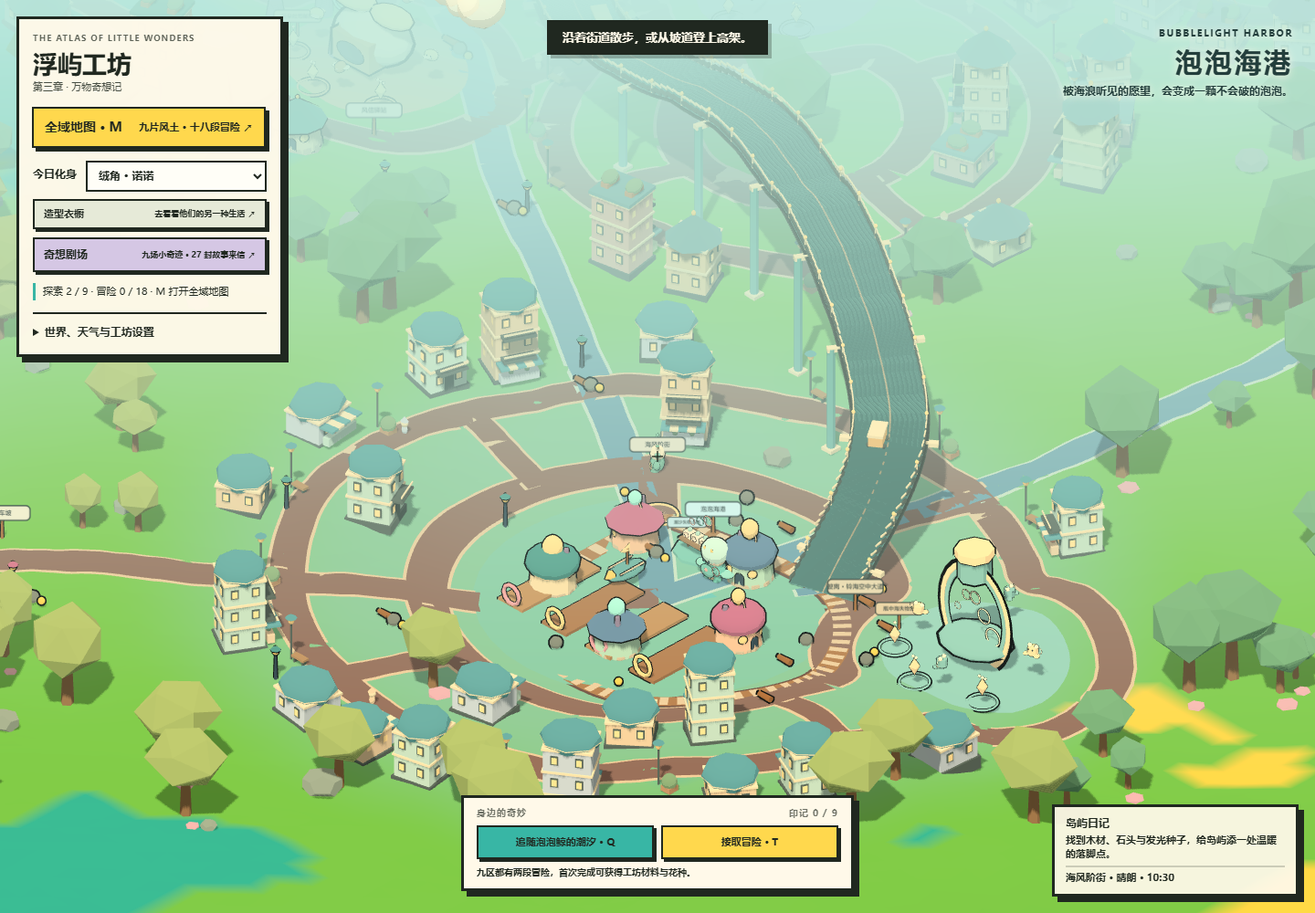
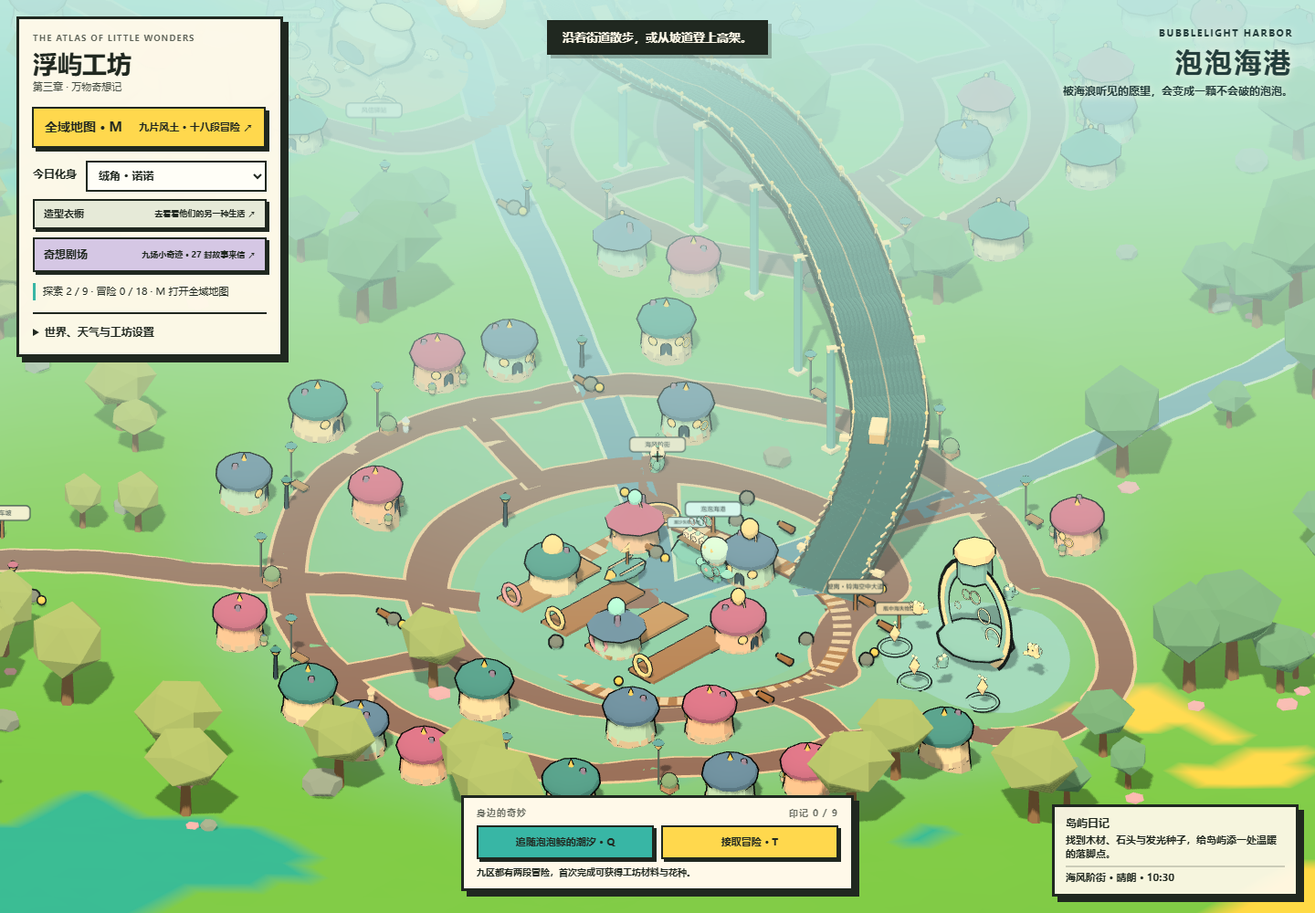
Unify city homes with the original rounded cottage style

diff --git a/world-city.js b/world-city.js
@@ -1,10 +1,12 @@
+import {HOUSE_COLORS,createHouseGeometry,houseParts} from './house-style.js';
+
 // Hand-authored neighborhoods and layered transport for the existing nine-region world.
 export const CITY_DISTRICTS = [
   {id:'cloudbell',name:'云铃环城街',en:'CLOUDBELL LANES',x:9,z:5,rings:[12.5,22],style:'post',colors:[0xf5dfb8,0xe8bfa1,0xb7d5c5],roof:0x579e96,link:[7,3.8],story:'邮戳屋顶挨着花店，晾衣绳上停满了等回信的纸鸟。'},
-  {id:'east',name:'铃东叠屋街',en:'EASTERN ROOFTOPS',x:48,z:2,rings:[8,16],style:'post',colors:[0xf3d6ad,0xe8bbb0,0xd4dfb7],roof:0x74a7b0,link:[27,4],story:'把小店叠成两三层，再给每扇窗留一片屋顶花园。'},
+  {id:'east',name:'铃东叠屋街',en:'EASTERN ROOFTOPS',x:48,z:2,rings:[8,16],style:'post',colors:[0xf3d6ad,0xe8bbb0,0xd4dfb7],roof:0x74a7b0,link:[27,4],story:'圆顶和尖顶沿坡错落，纸鸟在金色信箱与门前花盆之间传信。'},
   {id:'grove',name:'梦孢灯巷',en:'LANTERN GROVE',x:-46,z:18,rings:[8,16],style:'grove',colors:[0xe8cce0,0xd4d5e8,0xc1dbc9],roof:0xac83b4,link:[-20,16],story:'伞屋之间卖梦蕾和热茶，夜灯精沿着弯弯的街道散步。'},
   {id:'whale',name:'鲸眠花坊',en:'WHALEBLOOM QUARTER',x:-7,z:-65,rings:[8,15],style:'bloom',colors:[0xf2d6c3,0xf4dfb3,0xc7ded4],roof:0xdc9f9f,link:[-4,-32],story:'风筝挂满花坊的露台，赶路的人总能带走一朵花。'},
-  {id:'harbor',name:'海风阶街',en:'SEABREEZE TERRACES',x:80,z:47,rings:[15,24],style:'harbor',colors:[0xc9e8df,0xf1d7b7,0xd0deef],roof:0x65acb8,link:[73,40],story:'贝壳铺、船帆棚和蓝色阳台围着海港，一层又一层亮起灯。'},
+  {id:'harbor',name:'海风阶街',en:'SEABREEZE TERRACES',x:80,z:47,rings:[15,24],style:'harbor',colors:[0xc9e8df,0xf1d7b7,0xd0deef],roof:0x65acb8,link:[73,40],story:'圆鼓鼓的贝壳小屋围着海港，救生圈挂在门边，暖圆窗一盏盏亮起。'},
   {id:'gear',name:'发条南城',en:'CLOCKWORK SOUTH',x:10,z:100,rings:[15,24],style:'clock',colors:[0xe6c6a2,0xc6d4c1,0xf0dba7],roof:0x7e9992,link:[4,92],story:'修钟铺和面包摊共用一条街；观光班车在高架上慢慢经过。'},
   {id:'dunes',name:'薄荷驿城',en:'MINT CARAVANSERAI',x:-82,z:54,rings:[15,24],style:'dune',colors:[0xf0d6a2,0xe8b99e,0xdac8b4],roof:0xcd8d80,link:[-74,47],story:'连片的圆顶屋围住树荫，商队把风铃挂在每个拱门上。'},
   {id:'snow',name:'星邮坡城',en:'STARPOST HILLSIDE',x:77,z:-78,rings:[10,18],style:'snow',colors:[0xe6eeee,0xc8dce9,0xd8d1e7],roof:0x8aabc2,link:[86,-76],story:'陡屋顶接住落雪，观景桥把山坡上的星邮小屋连起来。'},
@@ -29,19 +31,25 @@ export function createCityWorld(THREE, env) {
 
   function prepareAssets(){
     shapes={box:new THREE.BoxGeometry(1,1,1),ball:new THREE.SphereGeometry(1,8,6),cone:new THREE.ConeGeometry(1,1,8),pillar:new THREE.CylinderGeometry(1,1,1,8),ring:new THREE.TorusGeometry(1,.12,6,16)};
-    solid=env.toon(0xffffff);glow=env.toon(0xffffff,{emissive:0xffd69a,emissiveIntensity:.22});
+    solid=env.toon(0xffffff);glow=env.toon(0xffffff,{emissive:HOUSE_COLORS.window,emissiveIntensity:.15});
   }
-  function add(shape,x,y,z,sx,sy,sz,color,angle=0,lit=false){
+  function add(shape,x,y,z,sx,sy,sz,color,angle=0,lit=false,tiltX=0,tiltZ=0){
     const key=shape+(lit?'-light':'');
     if(!batches.has(key))batches.set(key,[]);
-    batches.get(key).push({shape,x,y,z,sx,sy,sz,color,angle,lit});
+    batches.get(key).push({shape,x,y,z,sx,sy,sz,color,angle,lit,tiltX,tiltZ});
   }
   function flush(name){
     const root=new THREE.Group();root.name=name;
     for(const list of batches.values()){
       const first=list[0],mesh=new THREE.InstancedMesh(shapes[first.shape],first.lit?glow:solid,list.length);
-      list.forEach((p,i)=>{vec.position.set(p.x,p.y,p.z);vec.rotation.set(0,p.angle,0);vec.scale.set(p.sx,p.sy,p.sz);vec.updateMatrix();mesh.setMatrixAt(i,vec.matrix);mesh.setColorAt(i,tint.set(p.color));});
+      list.forEach((p,i)=>{vec.position.set(p.x,p.y,p.z);vec.rotation.set(p.tiltX,p.angle,p.tiltZ,'YXZ');vec.scale.set(p.sx,p.sy,p.sz);vec.updateMatrix();mesh.setMatrixAt(i,vec.matrix);mesh.setColorAt(i,tint.set(p.color));});
       mesh.castShadow=!first.lit;mesh.receiveShadow=true;mesh.computeBoundingSphere();root.add(mesh);
+      if(name.startsWith('city-district-')){
+        const hull=new THREE.InstancedMesh(mesh.geometry,env.outlineMat,list.length);
+        hull.instanceMatrix.copy(mesh.instanceMatrix);hull.computeBoundingSphere();
+        hull.name='inverted-hull';hull.userData.isOutline=true;hull.renderOrder=-1;hull.visible=env.state.outline;
+        root.add(hull);env.outlines.push(hull);
+      }
     }
     env.addProp(root);batches=new Map();return root;
   }
@@ -91,41 +99,53 @@ export function createCityWorld(THREE, env) {
       skyways.some(s=>nearestSegment(s.points,x,z).distance<s.def.width/2+r+1)||roadClearance(x,z)<r+.35;
   }
   function house(d,x,z,angle,index){
-    const wide=1.35+(index%3)*.12,depth=1.35+(index%2)*.1,floors=1+(index%4===0?2:index%3===0?1:0),height=1.7*floors;
+    // Keep the placement envelope unchanged so an art pass never moves the town.
+    const wide=1.35+(index%3)*.12,depth=1.35+(index%2)*.1;
     const c=Math.cos(angle),s=Math.sin(angle),g=ground(x,z),base=Math.max(g,ground(x-wide,z-depth),ground(x+wide,z+depth))+.12;
-    const part=(shape,px,py,pz,sx,sy,sz,color,lit=false)=>add(shape,x+px*c+pz*s,base+py,z-px*s+pz*c,sx,sy,sz,color,angle,lit);
-    part('box',0,(g-base)/2-.15,0,wide*2+.3,base-g+.3,depth*2+.3,ink);
-    part('box',0,height/2,0,wide*2,height,depth*2,d.colors[index%3]);
-    for(let f=0;f<floors;f++){
-      const y=f*1.7;part('box',0,y+1.65,0,wide*2+.22,.15,depth*2+.2,cream);
-      for(const face of [0,1,2,3])for(const side of [-1,1]){
-        const a=face*Math.PI/2,px=side*wide*.52*Math.cos(a)+Math.sin(a)*(depth+.035),pz=-side*wide*.52*Math.sin(a)+Math.cos(a)*(depth+.035);
-        add('box',x+px*c+pz*s,base+y+.9,z-px*s+pz*c,.52,.65,.09,ink,angle+a);
-        add('box',x+px*c+pz*s+Math.sin(angle+a)*.06,base+y+.9,z-px*s+pz*c+Math.cos(angle+a)*.06,.35,.47,.06,0xffdf9f,angle+a,true);
+    const scale=.97+(index%3)*.035,variant=index+CITY_DISTRICTS.indexOf(d);
+    const dome=['grove','dune','harbor'].includes(d.style)||d.style!=='snow'&&Boolean(index%2);
+    const colors={...HOUSE_COLORS,wall:HOUSE_COLORS.walls[variant%3],roof:HOUSE_COLORS.roofs[variant%3]};
+    const part=(shape,px,py,pz,sx,sy,sz,color,lit=false,rotation=[0,0,0])=>add(shape,x+(px*c+pz*s)*scale,base+py*scale,z+(-px*s+pz*c)*scale,sx*scale,sy*scale,sz*scale,color,angle+rotation[1],lit,rotation[0],rotation[2]);
+    for(const p of houseParts(variant,dome)){
+      const shape='house-'+p.shape;
+      if(!shapes[shape])shapes[shape]=createHouseGeometry(THREE,p.shape);
+      // Extend the same tapered stone footing only where the hillside needs it.
+      if(p.shape==='foundation'){
+        const low=Math.min(g,ground(x-wide,z-depth),ground(x+wide,z+depth));
+        const height=Math.max(1.15,(base-low+.35)/scale);
+        p.position[1]=.315-height/2;p.scale[1]=height/1.15;
       }
-      if(f>0){part('box',0,y-.02,depth+.38,wide*1.55,.16,.85,ink);part('box',0,y+.38,depth+.72,wide*1.55,.12,.08,cream);}
+      part(shape,...p.position,...p.scale,colors[p.material],p.material==='window',p.rotation);
     }
-    if(d.style==='grove'||d.style==='dune'||d.style==='harbor'){
-      part('ball',0,height+.25,0,wide*1.3,d.style==='grove'?.8:1.05,depth*1.3,d.roof);
-      part('pillar',0,height+.18,0,wide*1.28,.15,depth*1.28,cream);
-      if(d.style==='grove')for(const side of [-1,1])part('ball',side*.65,height+.83,.35,.22,.08,.22,cream);
-    }else if(index%3===1){
-      part('box',0,height+.15,0,wide*2+.3,.24,depth*2+.3,d.roof);
-      for(const side of [-1,1]){part('box',side*wide*.65,height+.42,0,.55,.4,1.35,0xc99572);part('ball',side*wide*.65,height+.76,0,.52,.48,.72,0x91b58a);}
-    }else{
-      part('cone',0,height+.85,0,wide*1.45,1.8,depth*1.45,d.roof);
-      part('ball',0,height+1.82,0,.16,.2,.16,0xf1cc7b,true);
+    // Local stories are small accessories on a shared cottage silhouette.
+    if(d.style==='grove')for(const [px,pz]of [[-.68,.63],[.62,.82],[.48,-.68]]){
+      const py=2+.56*Math.sqrt(1.8**2-px**2-pz**2);
+      part('ball',px,py+.025,pz,.21,.06,.21,HOUSE_COLORS.walls[0]);
     }
-    part('box',0,.55,depth+.07,.65,1.1,.12,ink);
-    if(index%2===0){
-      for(let i=0;i<5;i++)part('box',(i-2)*wide*.39,1.35,depth+.55,wide*.4,.14,1.1,i%2?cream:d.roof);
-      part('box',0,.35,depth+.45,wide*1.8,.6,.5,d.colors[(index+1)%3]);
-      for(const side of [-1,1])part('ball',side*.55,.76,depth+.43,.18,.18,.18,index%4?0xe8a38e:0x92b795);
+    if(d.style==='harbor')part('ring',1.26,.9,.93,.3,.3,.3,HOUSE_COLORS.gold,false,[0,.85,0]);
+    if(d.style==='clock'){
+      part('pillar',0,1.4,1.58,.2,.28,.2,HOUSE_COLORS.gold,false,[Math.PI/2,0,0]);
+      part('ball',0,1.4,1.72,.24,.24,.065,HOUSE_COLORS.paleStone);
+      part('ring',0,1.4,1.77,.25,.25,.2,HOUSE_COLORS.gold);
+      part('box',0,1.46,1.8,.025,.15,.025,HOUSE_COLORS.ink);
+      part('box',.06,1.4,1.8,.13,.025,.025,HOUSE_COLORS.ink);
     }
-    if(d.style==='clock'){part('pillar',-.6,height+.55,-.45,.26,1.3,.26,ink);part('ring',0,height+.16,depth+.16,.65,.65,.25,0xe8c489);}
-    if(d.style==='snow')part('cone',0,height+1.15,0,wide*.9,1.25,depth*.9,0xf7f4e5);
+    if(d.style==='snow')part('house-roof',0,2.9,0,.64,.6,.64,0xf7f4e5);
+    if(d.style==='dune'){
+      part('pillar',1.35,1.72,.68,.025,.48,.025,HOUSE_COLORS.gold);
+      part('ball',1.35,1.45,.68,.13,.14,.13,HOUSE_COLORS.gold);
+    }
+    if(d.style==='post'){
+      part('ball',1.2,.76,1.03,.22,.25,.13,HOUSE_COLORS.gold,false,[0,.65,0]);
+      part('box',1.23,.82,1.13,.24,.035,.025,HOUSE_COLORS.ink,false,[0,.65,0]);
+    }
+    if(d.style==='bloom'||index%3===0)for(const side of [-1,1]){
+      part('pillar',side*1.2,.2,1.35,.21,.35,.21,HOUSE_COLORS.paleStone);
+      part('ball',side*1.2,.47,1.35,.27,.28,.27,0x91b58a);
+      part('ball',side*1.2,.69,1.35,.13,.11,.13,HOUSE_COLORS.roofs[(variant+1)%3]);
+    }
     const collider=new THREE.Group();collider.position.set(x,base,z);
-    const record={group:collider,x,z,radius:Math.hypot(wide,depth)+.1,height:height+2,kind:'city-house',city:true,district:d.id};
+    const record={group:collider,x,z,radius:Math.hypot(wide,depth)+.1,height:3.55*scale,kind:'city-house',city:true,district:d.id};
     env.buildings.push(record);houses.push(record);return record;
   }
   function furnishing(x,z,index,d){
@@ -267,7 +287,7 @@ export function createCityWorld(THREE, env) {
     return {x:a.x+(b.x-a.x)*f,y:a.y+(b.y-a.y)*f,z:a.z+(b.z-a.z)*f,angle:Math.atan2(b.x-a.x,b.z-a.z)};
   }
   function update(dt,t,night){
-    if(!glow)return;glow.emissiveIntensity=.15+night*1.3;
+    if(!glow)return;glow.emissiveIntensity=.1+night*1.7;
     for(const item of traffic){
       const cycle=(t*.022+item.phase)%1,forward=cycle<.5,u=forward?cycle*2:2-cycle*2,p=sample(item.route.points,u),side=forward?.65:-.65;
       item.group.position.set(p.x+Math.cos(p.angle)*side,p.y+.08,p.z-Math.sin(p.angle)*side);item.group.rotation.y=p.angle+(forward?0:Math.PI);

diff --git a/index.html b/index.html
@@ -91,6 +91,7 @@
 import * as THREE from "./vendor/three-0.161.0/three.module.js";
 import {TALE_PLACES,TALE_SERIES,TALE_LOOKS,normalizeTales,createTaleWorld} from "./world-tales.js";
 import {createCityWorld} from "./world-city.js";
+import {HOUSE_COLORS,createHouseGeometry,houseParts} from "./house-style.js";
 (() => {
   'use strict';
   const $ = id => document.getElementById(id);
@@ -108,7 +109,19 @@ import {createCityWorld} from "./world-city.js";
   const sun = new THREE.DirectionalLight(0xfff2c3,2.6); sun.castShadow=true; sun.shadow.mapSize.set(1536,1536); sun.shadow.camera.left=-58;sun.shadow.camera.right=58;sun.shadow.camera.top=58;sun.shadow.camera.bottom=-58;sun.shadow.camera.near=1;sun.shadow.camera.far=500; scene.add(sun); scene.add(sun.target);
   const gradientCanvas=document.createElement('canvas'); gradientCanvas.width=3;gradientCanvas.height=1; const gc=gradientCanvas.getContext('2d'); gc.fillStyle='#4b4b4b';gc.fillRect(0,0,1,1);gc.fillStyle='#9a9a9a';gc.fillRect(1,0,1,1);gc.fillStyle='#f7f7f7';gc.fillRect(2,0,1,1); const gradientMap=new THREE.CanvasTexture(gradientCanvas); gradientMap.minFilter=THREE.NearestFilter;gradientMap.magFilter=THREE.NearestFilter;
   const toon = (color, extra={}) => new THREE.MeshToonMaterial({color,gradientMap,...extra});
-  const outlineMat = new THREE.ShaderMaterial({side:THREE.BackSide,transparent:true,fog:true,uniforms:THREE.UniformsUtils.merge([THREE.UniformsLib.fog,{lineColor:{value:new THREE.Color(0x202820)}}]),vertexShader:'varying float vHeight; varying float vFogDepth; void main(){vHeight=position.y; vec3 p=position+normal*0.055; vec4 mv=modelViewMatrix*vec4(p,1.0);vFogDepth=-mv.z;gl_Position=projectionMatrix*mv;}',fragmentShader:'uniform vec3 lineColor;uniform vec3 fogColor;uniform float fogNear;uniform float fogFar;varying float vHeight;varying float vFogDepth;void main(){if(vHeight < -2.0) discard;float fogFactor=smoothstep(fogNear,fogFar,vFogDepth);gl_FragColor=vec4(mix(lineColor,fogColor,fogFactor),1.0);}'});
+  const outlineMat = new THREE.ShaderMaterial({side:THREE.BackSide,transparent:true,fog:true,uniforms:THREE.UniformsUtils.merge([THREE.UniformsLib.fog,{lineColor:{value:new THREE.Color(0x202820)}}]),vertexShader:`
+    varying float vHeight; varying float vFogDepth;
+    void main(){
+      vHeight=position.y;
+      vec3 p=position+normal*0.055;
+      // Match the original cottage's child hull, including its local 1.022 scale.
+      #ifdef USE_INSTANCING
+        vec4 mv=modelViewMatrix*instanceMatrix*vec4(p*1.022,1.0);
+      #else
+        vec4 mv=modelViewMatrix*vec4(p,1.0);
+      #endif
+      vFogDepth=-mv.z;gl_Position=projectionMatrix*mv;
+    }`,fragmentShader:'uniform vec3 lineColor;uniform vec3 fogColor;uniform float fogNear;uniform float fogFar;varying float vHeight;varying float vFogDepth;void main(){if(vHeight < -2.0) discard;float fogFactor=smoothstep(fogNear,fogFar,vFogDepth);gl_FragColor=vec4(mix(lineColor,fogColor,fogFactor),1.0);}'});
   const mats={terrain:toon(0xffffff,{vertexColors:true}), water:toon(0x75d7d0,{transparent:true,opacity:.52,side:THREE.DoubleSide}), trunk:toon(0x91552d), leaf:toon(0x4ca85b), pine:toon(0x147b6f), rock:toon(0x858b82), flower:toon(0xffbd3f), cloud:toon(0xfdfdf8,{transparent:true,opacity:.7,depthWrite:false}), clay:toon(0xff8068), fire:toon(0xff6449), wood:toon(0xa86c3c), bench:toon(0xc7864d), seed:toon(0xffd75a), crystal:toon(0x54d8cb,{emissive:0x15594f,emissiveIntensity:.65}), mushroom:toon(0xd778a2), mushroomLight:toon(0xffd986,{emissive:0x795323,emissiveIntensity:.25}), roadEdge:toon(0xd1b982,{side:THREE.DoubleSide}), road:toon(0x8b6c64,{side:THREE.DoubleSide}), wall:toon(0xffe7ba), roof:toon(0x4fa89b), moon:toon(0xf9e5ab), lantern:new THREE.MeshBasicMaterial({color:0xffcb69}), stars:new THREE.PointsMaterial({color:0xfff1bd,size:1.7,transparent:true,opacity:0,depthWrite:false}), rain:new THREE.LineBasicMaterial({color:0x9dd6ec,transparent:true,opacity:.56}), snow:new THREE.PointsMaterial({color:0xf8fbff,size:4,transparent:true,opacity:.9,depthWrite:false}), stardust:new THREE.PointsMaterial({color:0xffe18b,size:3,transparent:true,opacity:.88,depthWrite:false})};
   // Curved decks need a small shadow bias to avoid self-shadow striping.
   sun.shadow.normalBias=.05;sun.shadow.bias=-.00005;
@@ -134,15 +147,15 @@ import {createCityWorld} from "./world-city.js";
   // Fantasy scenery is generated from the seed; only the three vehicles carry mutable state.
   const fantasyBuildings = [], fantasyFloaters = [];
   const fantasyPalette = {
-    stone: toon(0x9c8cae, {side: THREE.DoubleSide}),
-    paleStone: toon(0xdfc8aa, {side: THREE.DoubleSide}),
+    stone: toon(HOUSE_COLORS.stone, {side: THREE.DoubleSide}),
+    paleStone: toon(HOUSE_COLORS.paleStone, {side: THREE.DoubleSide}),
     starRoad: toon(0x699cb8, {emissive: 0x17455b, emissiveIntensity: .28, side: THREE.DoubleSide}),
     starEdge: toon(0xc3ded6, {side: THREE.DoubleSide}),
     timber: toon(0xaa7950, {side: THREE.DoubleSide}),
     timberEdge: toon(0x684c45, {side: THREE.DoubleSide}),
-    gold: toon(0xffd46e), ink: toon(0x304658),
-    walls: [toon(0xffe6bb), toon(0xffcaa7), toon(0xc1e8cf)],
-    roofs: [toon(0x519e9d), toon(0xcc7499), toon(0x678eb4)],
+    gold: toon(HOUSE_COLORS.gold), ink: toon(HOUSE_COLORS.ink),
+    walls: HOUSE_COLORS.walls.map(color=>toon(color)),
+    roofs: HOUSE_COLORS.roofs.map(color=>toon(color)),
     crystal: toon(0x80e4d9, {emissive: 0x216e76, emissiveIntensity: .38}),
     lilacCrystal: toon(0xc3adfa, {emissive: 0x4c326f, emissiveIntensity: .3}),
     mushroom: toon(0xe784ae), mushroomStem: toon(0xffe2b7),
@@ -308,29 +321,14 @@ import {createCityWorld} from "./world-city.js";
   function makeHouse(x, z, angle, variant) {
     const group = new THREE.Group();
     group.position.set(x, terrainHeight(x, z), z); group.rotation.y = angle;
-    const wall = fantasyPalette.walls[variant % 3], roof = fantasyPalette.roofs[variant % 3];
-    fantasyMesh(group, new THREE.CylinderGeometry(1.57, 1.68, 1.15, 10),
-      fantasyPalette.paleStone, 0, -.26, 0);
-    fantasyMesh(group, new THREE.CylinderGeometry(1.42, 1.56, 1.9, 12), wall, 0, .95, 0);
-    if (variant % 2) {
-      const dome = fantasyMesh(group, new THREE.SphereGeometry(1.8, 12, 8), roof, 0, 2.0, 0);
-      dome.scale.y = .56;
-      fantasyMesh(group, new THREE.ConeGeometry(.23, .65, 7), fantasyPalette.gold, 0, 3.13, 0);
-    } else {
-      fantasyMesh(group, new THREE.ConeGeometry(1.94, 1.58, 10), roof, 0, 2.56, 0);
-      fantasyMesh(group, new THREE.SphereGeometry(.13, 6, 5), fantasyPalette.gold, 0, 3.43, 0);
+    const materials={...fantasyPalette,wall:fantasyPalette.walls[variant%3],roof:fantasyPalette.roofs[variant%3]};
+    for(const part of houseParts(variant)){
+      const geometry=createHouseGeometry(THREE,part.shape);
+      const mesh=part.material==='window'
+        ?fantasyGlow(group,geometry,HOUSE_COLORS.window,...part.position,variant*.6)
+        :fantasyMesh(group,geometry,materials[part.material],...part.position);
+      mesh.scale.set(...part.scale);mesh.rotation.set(...part.rotation);
     }
-    const door = fantasyMesh(group, new THREE.CapsuleGeometry(.3, .52, 4, 8),
-      fantasyPalette.ink, 0, .56, 1.48);
-    door.scale.z = .12;
-    for (const side of [-1, 1]) {
-      const window = fantasyGlow(group, new THREE.SphereGeometry(.29, 8, 6),
-        0xffdb8f, side * .83, 1.17, 1.25, variant * .6);
-      window.scale.set(1, 1, .18); window.rotation.y = side * .55;
-    }
-    const chimney = fantasyMesh(group, new THREE.CylinderGeometry(.16, .2, .75, 7),
-      fantasyPalette.stone, -.85, 2.7, -.35);
-    chimney.rotation.z = -.06;
     meshWithOutline(group, 1.022);
     group.userData.townBuilding = true;
     fantasyBuildings.push({group, x, z, radius: 1.66, height: 3.55, kind: 'house'});
@@ -1711,7 +1709,7 @@ import {createCityWorld} from "./world-city.js";
   for(const button of document.querySelectorAll('#touchControls [data-dir]')){const code={up:'KeyW',down:'KeyS',left:'KeyA',right:'KeyD'}[button.dataset.dir];button.addEventListener('pointerdown',e=>{e.preventDefault();keys.add(code);button.setPointerCapture(e.pointerId)});for(const event of ['pointerup','pointercancel','lostpointercapture'])button.addEventListener(event,()=>keys.delete(code))}for(const button of document.querySelectorAll('#touchControls [data-action]'))button.addEventListener('click',()=>({jump,collect,plant,ride:toggleRide}[button.dataset.action])());
   cityWorld=createCityWorld(THREE,{
     props,roads,buildings:fantasyBuildings,residents,tales:TALE_PLACES,activities:ACTIVITIES,life:REGION_LIFE,
-    addProp,makeRoad,terrainHeight,toon,sign:makeFantasySign,disposeObjects,
+    addProp,makeRoad,terrainHeight,toon,sign:makeFantasySign,disposeObjects,outlines,outlineMat,state,
     travel:(x,z)=>{if(state.riding)toggleRide();keys.clear();$('atlas').close();$('speech').hidden=true;
       player.position.set(x,movementFloor(x,z)+.03,z);resolveTownCollision(player.position,player.position.clone());playerVelocity.set(0,0,0);onGround=true;
       state.camera='follow';$('camera').textContent='视角：跟随';setViewSpan(innerWidth<680?40:70);updateCamera(1);updateLocationStatus();toast('沿着街道散步，或从坡道登上高架。');}

diff --git a/house-style.js b/house-style.js
@@ -1,0 +1,42 @@
+// The original cottages are the visual reference for every residential district.
+// Both individual landmarks and instanced city houses use this same recipe.
+export const HOUSE_COLORS = {
+  stone:0x9c8cae, paleStone:0xdfc8aa, gold:0xffd46e, ink:0x304658,
+  walls:[0xffe6bb,0xffcaa7,0xc1e8cf], roofs:[0x519e9d,0xcc7499,0x678eb4],
+  window:0xffdb8f
+};
+
+const GEOMETRIES = {
+  foundation:['CylinderGeometry',[1.57,1.68,1.15,10]],
+  wall:['CylinderGeometry',[1.42,1.56,1.9,12]],
+  dome:['SphereGeometry',[1.8,12,8]],
+  roof:['ConeGeometry',[1.94,1.58,10]],
+  spire:['ConeGeometry',[.23,.65,7]],
+  finial:['SphereGeometry',[.13,6,5]],
+  door:['CapsuleGeometry',[.3,.52,4,8]],
+  window:['SphereGeometry',[.29,8,6]],
+  chimney:['CylinderGeometry',[.16,.2,.75,7]]
+};
+
+export function createHouseGeometry(THREE,shape){
+  const [type,args]=GEOMETRIES[shape];
+  return new THREE[type](...args);
+}
+
+export function houseParts(variant,dome=Boolean(variant%2)){
+  const part=(shape,material,x,y,z,scale=[1,1,1],rotation=[0,0,0])=>({shape,material,position:[x,y,z],scale,rotation});
+  return [
+    part('foundation','paleStone',0,-.26,0),
+    part('wall','wall',0,.95,0),
+    ...(dome?[
+      part('dome','roof',0,2,0,[1,.56,1]),
+      part('spire','gold',0,3.13,0)
+    ]:[
+      part('roof','roof',0,2.56,0),
+      part('finial','gold',0,3.43,0)
+    ]),
+    part('door','ink',0,.56,1.48,[1,1,.12]),
+    ...[-1,1].map(side=>part('window','window',side*.83,1.17,1.25,[1,1,.18],[0,side*.55,0])),
+    part('chimney','stone',-.85,2.7,-.35,[1,1,1],[0,0,-.06])
+  ];
+}

diff --git a/docs/CITY_AND_SKYWAYS.md b/docs/CITY_AND_SKYWAYS.md
@@ -8,18 +8,22 @@
 
 | 街区 | 默认新增建筑 | 生活与建筑 |
 | --- | ---: | --- |
-| 云铃环城街 | 7 | 原有小镇外围的邮戳屋顶、花店与露台 |
-| 铃东叠屋街 | 9 | 两三层小店、条纹雨棚、屋顶花园 |
-| 梦孢灯巷 | 15 | 紫色伞屋、薄荷窗框与林间灯饰 |
-| 鲸眠花坊 | 10 | 珊瑚色屋顶、花箱和北方中转街 |
-| 海风阶街 | 19 | 蓝色圆顶、层叠阳台与港口商铺 |
-| 发条南城 | 21 | 铜色钟饰、修钟店与高架下的市场 |
-| 薄荷驿城 | 20 | 奶油色圆顶、糖沙商路与歇脚长椅 |
+| 云铃环城街 | 7 | 原有小镇外围的圆顶与尖顶、金色信箱与花盆 |
+| 铃东叠屋街 | 9 | 沿坡错落的手办小屋、圆窗和门边信箱 |
+| 梦孢灯巷 | 15 | 带奶油斑点的蘑菇圆顶与林间灯饰 |
+| 鲸眠花坊 | 10 | 莓粉、青绿和灰蓝屋顶、门前花盆和北方中转街 |
+| 海风阶街 | 19 | 与原有港湾小屋一致的圆顶、圆窗与门边救生圈 |
+| 发条南城 | 21 | 金色钟饰、修钟店与高架下的市场 |
+| 薄荷驿城 | 20 | 圆顶、檐下风铃、糖沙商路与歇脚长椅 |
 | 星邮坡城 | 11 | 接住落雪的尖顶、山坡街道与星灯 |
 | 雨歇花园坊 | 15 | 花商小店、沿街绿植与穿过花园的路 |
 | 风筝中转街 | 17 | 通向雪境的中转小城与钟饰屋顶 |
 
-每片街区有内外环街、四条支路和对外连接。房屋有一至三层的变化；高层阳台、花园平顶、圆顶、尖顶、店铺雨棚和灯窗组合出不同街景。放置建筑时检查道路、已有建筑、居民、生活角、原有任务点与剧场的留白，保留可步行的空间。
+每片街区有内外环街、四条支路和对外连接。住宅以原有小镇的小屋为基准：圆鼓墙身、宽檐圆顶或尖顶、拱门、暖色圆窗、小烟囱和金色顶饰。奶油、蜜桃、薄荷墙面搭配青绿、莓粉、灰蓝屋顶，地区差异通过少量装饰表达。新旧房屋共用 `house-style.js` 中的几何、比例和配色，实例住宅也使用原有反向外壳描边与开关，避免后续扩建产生两套画风。
+
+这次风格统一保留 144 幢住宅的位置与碰撞范围、105 段道路及四条高架。放置建筑时检查道路、已有建筑、居民、生活角、原有任务点与剧场的留白，保留可步行的空间；山坡上的圆形石基随地势延伸。
+
+![统一后的新旧海港住宅](screenshots/city-cottages.png)
 
 ## 四条立体路线
 
@@ -38,7 +42,7 @@
 
 - 40 位街头小居民分布在十片街区，沿固定街道散步。它们是独立的环境角色，不替代十位可交谈的故事伙伴。
 - 8 辆观光班车沿四条高架往返，用来呈现城市交通。它们是景观车辆，不能登乘；原有邮车、小巴、浮舟与星帆艇仍可召回和驾驶。
-- 窗灯、路灯与桥灯随夜色亮起。阳台、花箱、街边长椅与店铺雨棚形成近景细节。
+- 窗灯、路灯与桥灯随夜色亮起。花盆、救生圈、钟饰、风铃和街边长椅形成近景细节。
 - 原有九处剧场、27 张明信片与十八段冒险保留；本轮增加的是空间与环境生活，没有增加新任务数量。
 
 ![云铃镇与分层道路](screenshots/city-skyways.png)
@@ -55,11 +59,12 @@
 
 - `world-city.js`：街区与路线定义、建筑实例、环境行人、观光班车、桥面查询、护栏约束、地图图层与导览。
 - `world-city.css`：地图内导览卡片及手机布局。
+- `house-style.js`：原有小屋与新增住宅共用的几何、比例、屋顶形态和配色。
 - `index.html`：步行／驾驶／上下车／读档接入分层高度，城市生成、地形编辑与昼夜循环接入模块。
 - `scripts/verify-city.cjs`：通过测试专用接口驱动实际游戏；接口不进入发行页面。
 
-专项覆盖四条路线完整步行、整段小巴驾驶、桥下穿行、护栏、桥上步行与驾驶存档、桥上下车、旧档、地形编辑、重复生成、目的地保护和手机布局，并生成日景、夜景与地图实机截图。测试结果保存在本地忽略目录 `.local/`；这不等同于不同硬件上的性能保证。
+专项覆盖四条路线完整步行、整段小巴驾驶、桥下穿行、护栏、桥上步行与驾驶存档、桥上下车、旧档、地形编辑、重复生成、目的地保护和手机布局，以及新旧住宅的描边开关和重建后描边回收，并生成日景、夜景、住宅近景与地图实机截图。测试结果保存在本地忽略目录 `.local/`；这不等同于不同硬件上的性能保证。
 
-本轮验证通过：城市与高架专项 24 项、剧场 47 项、衣橱与存档回归 131 项、实际部署 12 项，共 214 项。实际部署检查没有外部网络请求或浏览器报错。
+风格统一后的验证通过：城市与高架专项 27 项、剧场 47 项、衣橱与存档回归 131 项、实际部署 12 项，共 217 项。实际部署检查没有外部网络请求或浏览器报错。
 
 ![发条南城的夜间灯窗](screenshots/city-night.png)

diff --git a/README.md b/README.md
@@ -10,7 +10,7 @@
 
 ## 街巷与高架 · 城市扩展
 
-默认 `LUMEN-07` 地图新增 **10 片街区、144 幢小屋与店铺**，地面道路从 27 段增加到 **105 段**。环街、支路、沿街商铺、阳台、屋顶花园和灯饰让城镇连成更丰富的生活空间；森林、海港、糖沙和雪境各有建筑配色与屋顶形态。
+默认 `LUMEN-07` 地图新增 **10 片街区、144 幢小屋与店铺**，地面道路从 27 段增加到 **105 段**。新旧住宅共用圆鼓墙身、宽檐圆顶或尖顶、拱门、暖色圆窗和深色描边；统一奶油、蜜桃、薄荷墙面与青绿、莓粉、灰蓝屋顶。森林的蘑菇斑点、海港的救生圈、糖沙的风铃和雪境的积雪保留各地特点，街区密度与道路布局不变。
 
 **4 条高架都能实际通行**：铃海空中大道、花钟环城高架、星邮观景长桥、薄荷回风栈道。步行或驾驶邮车、小巴沿坡道上桥，桥下仍可穿行；桥上位置可随进度保存。40 位街头小居民与 8 辆观光班车沿固定路线活动，窗灯和桥灯随昼夜变化。
 
@@ -184,6 +184,7 @@ world-tales.js             奇想剧场、故事与造型数据
 world-tales.css            故事集与互动界面
 world-city.js              城市街区、批量建筑、立体道路与通行表面
 world-city.css             地图中的街区与高架导览
+house-style.js             新旧住宅共用的比例、几何与配色
 GAME_DESIGN.md             原始附图需求与早期设计档案
 docs/WORLD_BIBLE.md        原创世界、角色与当前实现范围
 docs/CITY_AND_SKYWAYS.md    城市扩展、通行与验证说明
